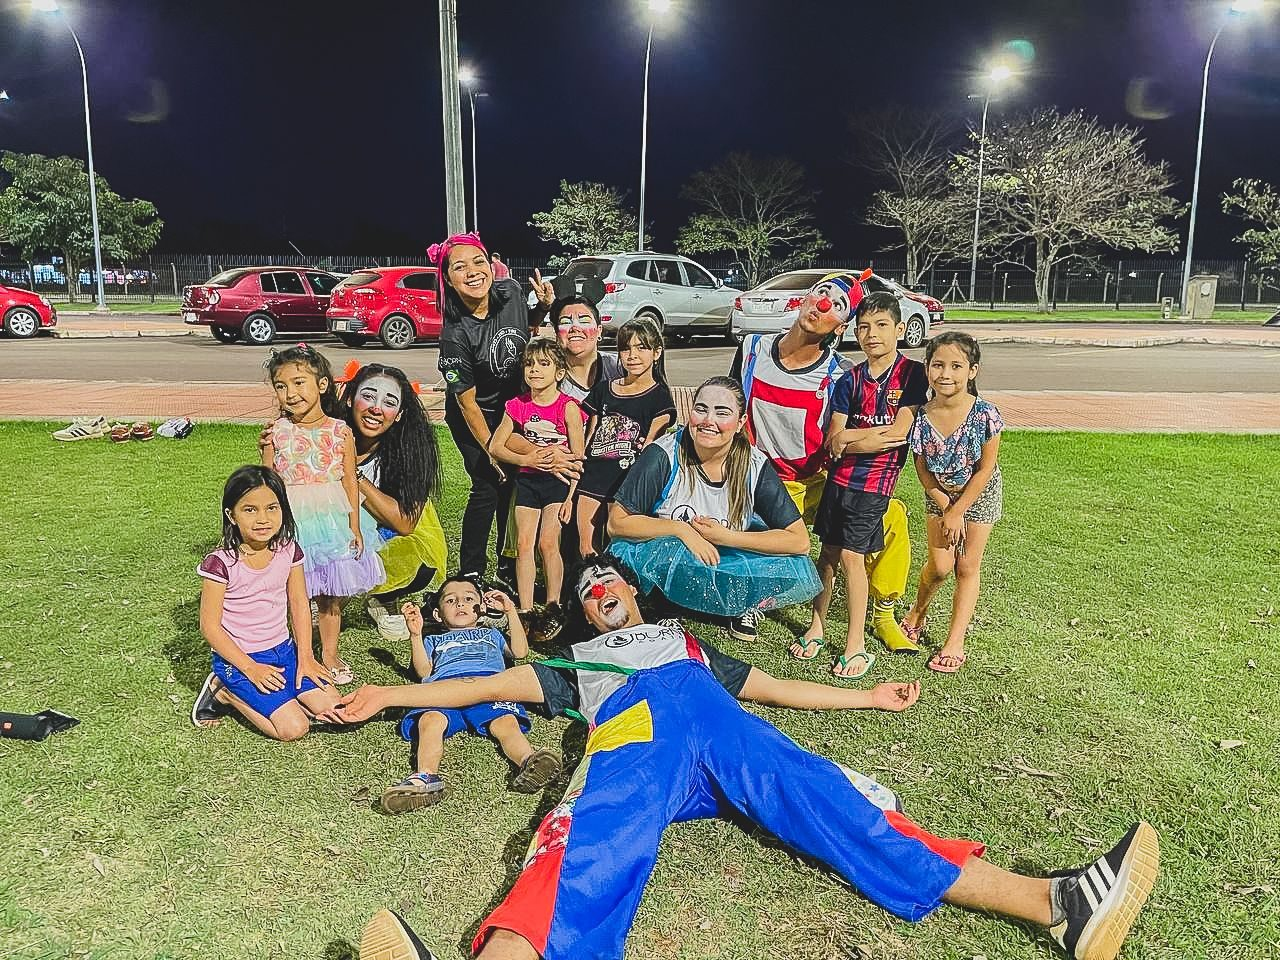
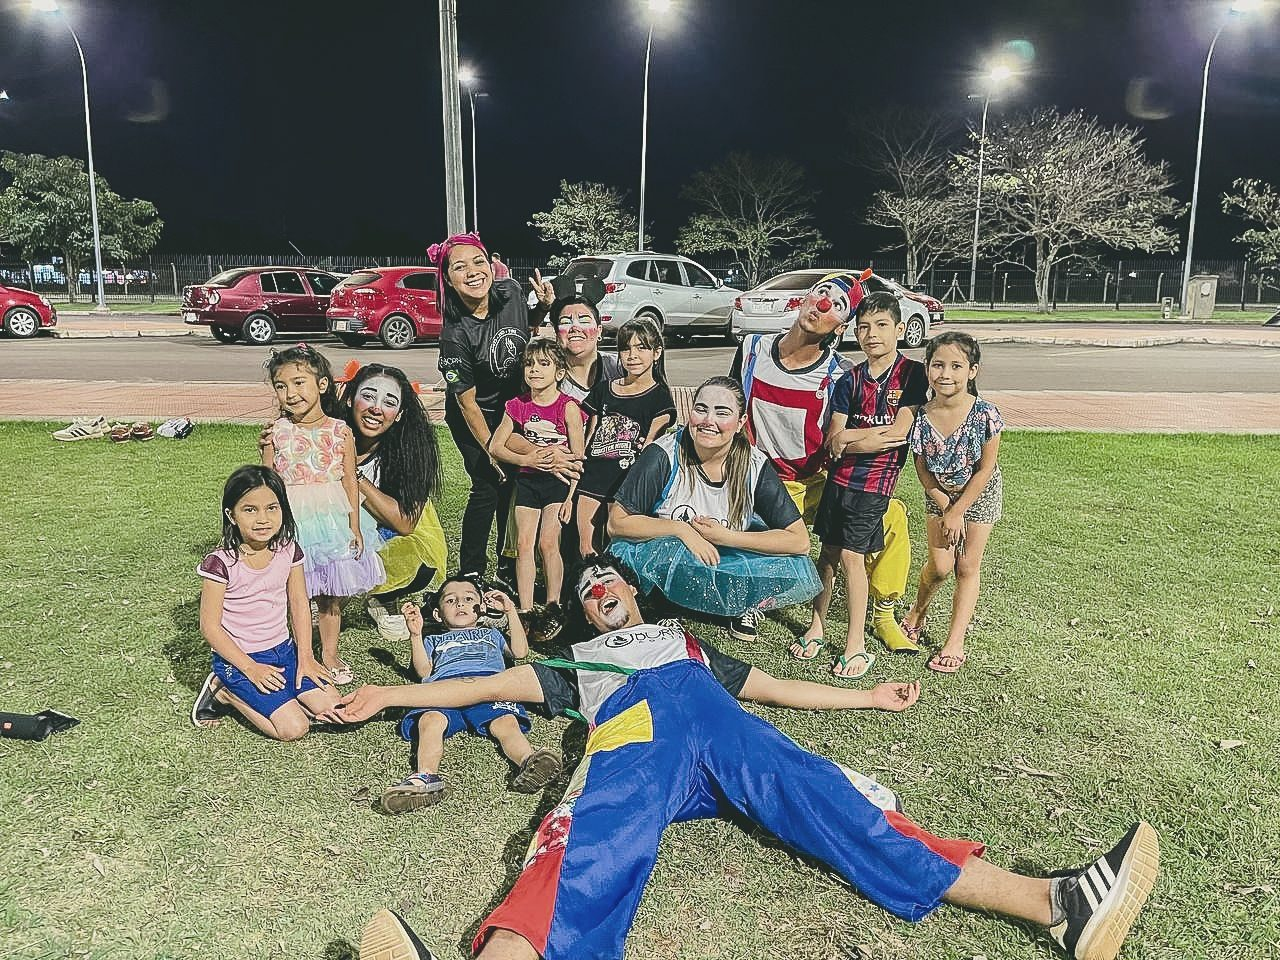
Complete the gallery with 8 color-graded photos
Add the last three photos (cropping the phone screenshot), apply one
shared color grade to all eight so they match the site palette, and
keep the grading script in ferramentas/ for future photos.

Claude-Session: https://claude.ai/code/session_011HpQpUXDNQJUSJB9QKcyZw

diff --git a/site/index.html b/site/index.html
@@ -176,15 +176,15 @@
           </button>
           <button class="gallery-item" type="button" aria-label="Ampliar foto 6">
             <span class="ph">Foto 6: imagens/galeria/06.jpg</span>
-            <img src="imagens/galeria/06.jpg" alt="Foto 6 do campo missionário" loading="lazy" onerror="this.remove()">
+            <img src="imagens/galeria/06.jpg" alt="Missionários com crianças e um líder local em frente à mata" loading="lazy" onerror="this.remove()">
           </button>
           <button class="gallery-item" type="button" aria-label="Ampliar foto 7">
             <span class="ph">Foto 7: imagens/galeria/07.jpg</span>
-            <img src="imagens/galeria/07.jpg" alt="Foto 7 do campo missionário" loading="lazy" onerror="this.remove()">
+            <img src="imagens/galeria/07.jpg" style="object-position: center 62%" alt="Missionário com microfone ao lado de um líder local em um culto" loading="lazy" onerror="this.remove()">
           </button>
           <button class="gallery-item" type="button" aria-label="Ampliar foto 8">
             <span class="ph">Foto 8: imagens/galeria/08.jpg</span>
-            <img src="imagens/galeria/08.jpg" alt="Foto 8 do campo missionário" loading="lazy" onerror="this.remove()">
+            <img src="imagens/galeria/08.jpg" style="object-position: center 40%" alt="Missionários orando por uma mulher sentada dentro de uma casa de madeira" loading="lazy" onerror="this.remove()">
           </button>
         </div>
       </div>

diff --git a/ferramentas/filtro-galeria.py b/ferramentas/filtro-galeria.py
@@ -1,0 +1,20 @@
+"""Filtro único da galeria: menos saturação, contraste suave, sombras puxadas para o
+verde da paleta e luzes levemente quentes. Uso: grade.py origem destino [top bottom]"""
+import sys, numpy as np
+from PIL import Image, ImageOps
+def grade(im):
+    a=np.asarray(im).astype(np.float32)/255.0
+    lum=(0.2126*a[...,0]+0.7152*a[...,1]+0.0722*a[...,2])[...,None]
+    a=np.clip(lum+(a-lum)*0.72,0,1)
+    a=np.clip(a+(a-0.5)*0.08-0.08*np.sin(np.pi*a)*(a-0.5),0,1)
+    lum=(0.2126*a[...,0]+0.7152*a[...,1]+0.0722*a[...,2])[...,None]
+    shadow=np.array([0.02,0.16,0.09]); high=np.array([1.0,0.93,0.80])
+    ws=np.clip(1-lum*2,0,1)**1.3*0.32; wh=np.clip(lum*2-1,0,1)**1.3*0.16
+    a=a*(1-ws)+shadow*ws; a=a*(1-wh)+high*wh; a=0.045+a*0.94
+    return Image.fromarray((np.clip(a,0,1)*255).astype(np.uint8))
+src,dst=sys.argv[1],sys.argv[2]
+im=ImageOps.exif_transpose(Image.open(src)).convert('RGB')
+if len(sys.argv)>4: im=im.crop((0,int(sys.argv[3]),im.width,int(sys.argv[4])))
+im.thumbnail((1600,1600))
+grade(im).save(dst,'JPEG',quality=82,optimize=True,progressive=True)
+print(dst, im.size)

diff --git a/site/LEIA-ME.md b/site/LEIA-ME.md
@@ -21,3 +21,7 @@ Coloque as fotos na pasta `imagens/` com exatamente estes nomes. Enquanto uma fo
 Paleta: verde `#009C53` (principal), laranja `#FF5300`, amarelo `#FFD332`, azul `#0C3EFF` e branco `#FFFFFF`. As cores ficam no começo do arquivo `style.css`.
 
 Regra de contraste usada em todo o site: sobre verde, laranja ou amarelo o texto é sempre escuro; sobre azul ou sobre o fundo escuro o texto é branco. Todos os textos passam no padrão de acessibilidade WCAG AA.
+
+## Filtro das fotos da galeria
+
+As 8 fotos da galeria passam pelo mesmo filtro de cor, para todas ficarem com a mesma cara. Para tratar uma foto nova do mesmo jeito: `python3 ferramentas/filtro-galeria.py foto-original.jpg site/imagens/galeria/09.jpg`
